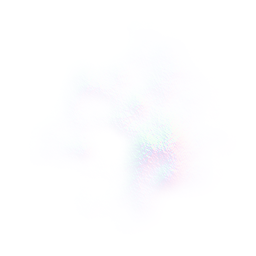
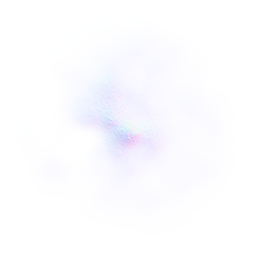
cloud gen fixes

Changed region(s): [[0.3438, 0.4062, 0.5938, 0.5938], [0.625, 0.5625, 0.6562, 0.5938]]

diff --git a/generation/gen-normalmap.js b/generation/gen-normalmap.js
@@ -398,7 +398,7 @@ switch (type) {
                 }
             }
         }
-        hmap.normalize();
+        //hmap.normalize();
         break;
 
     case 'death-metal':
